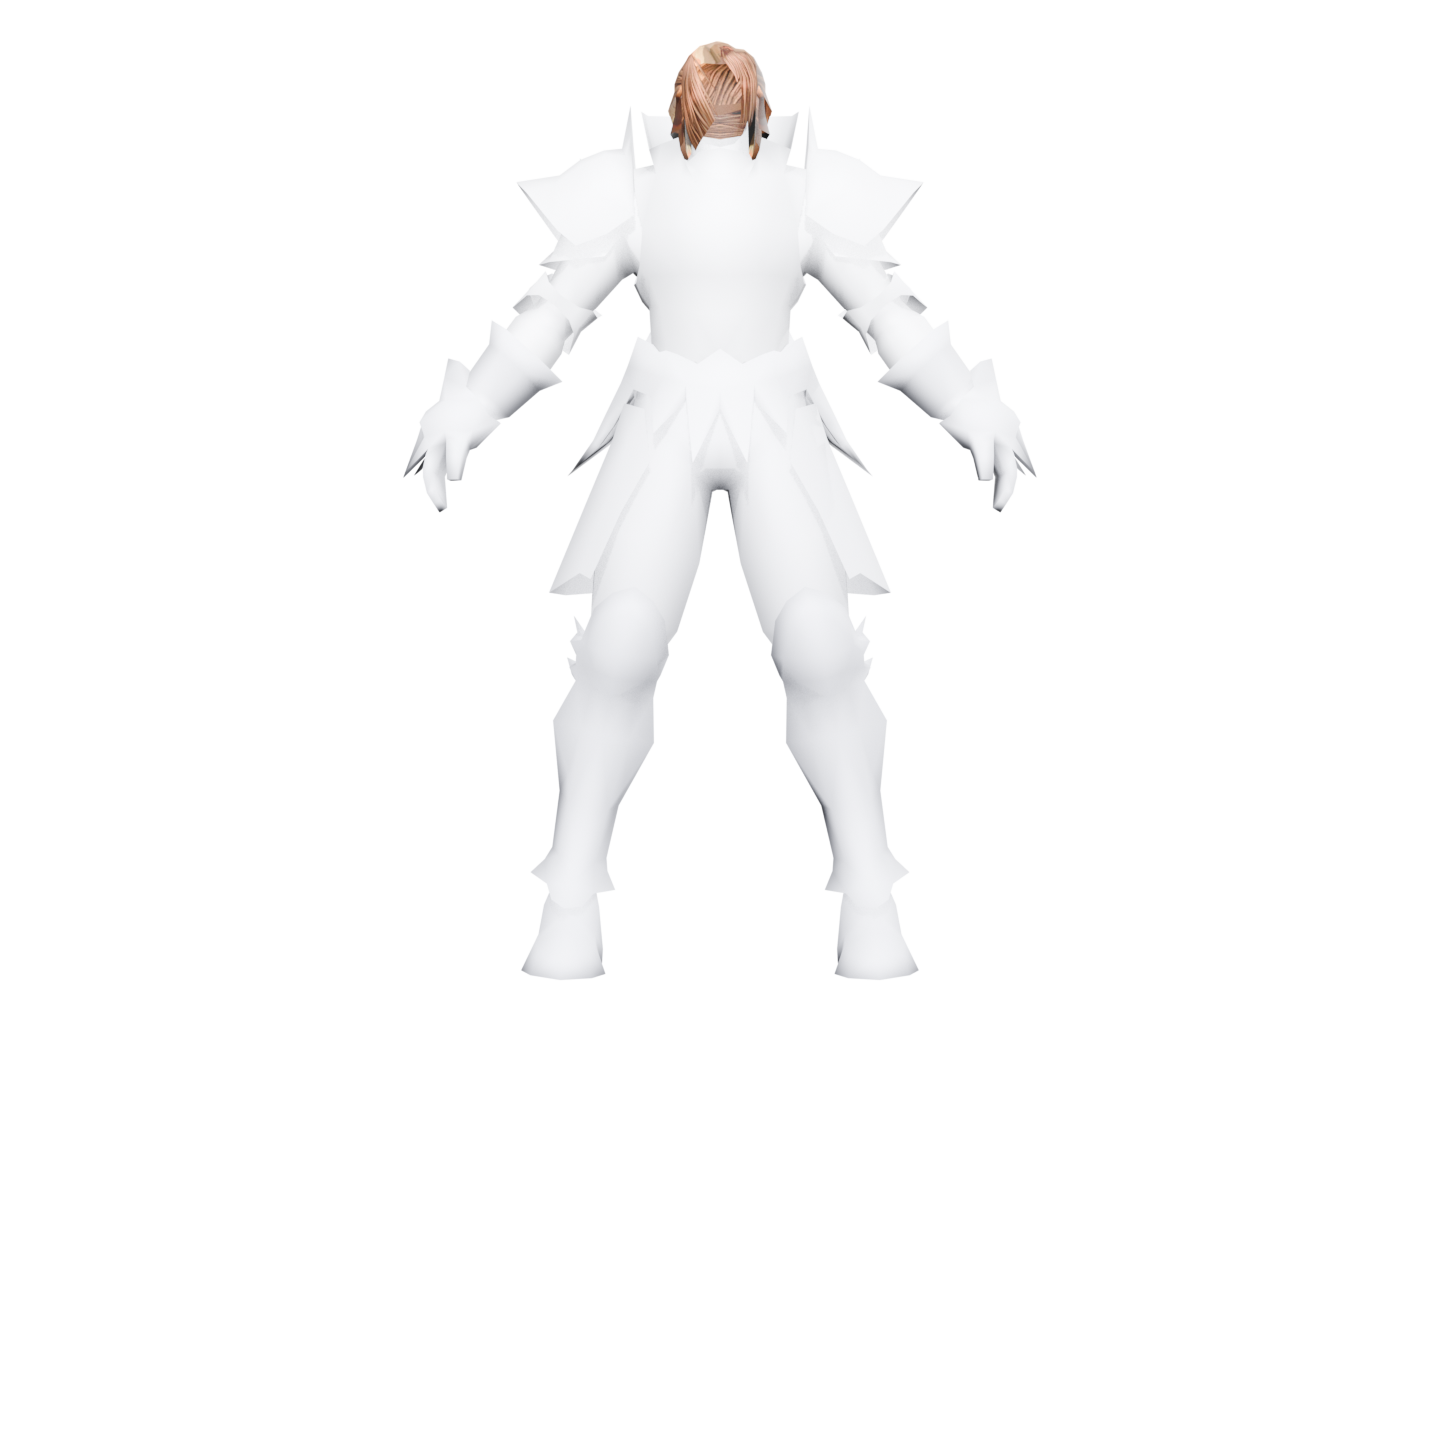
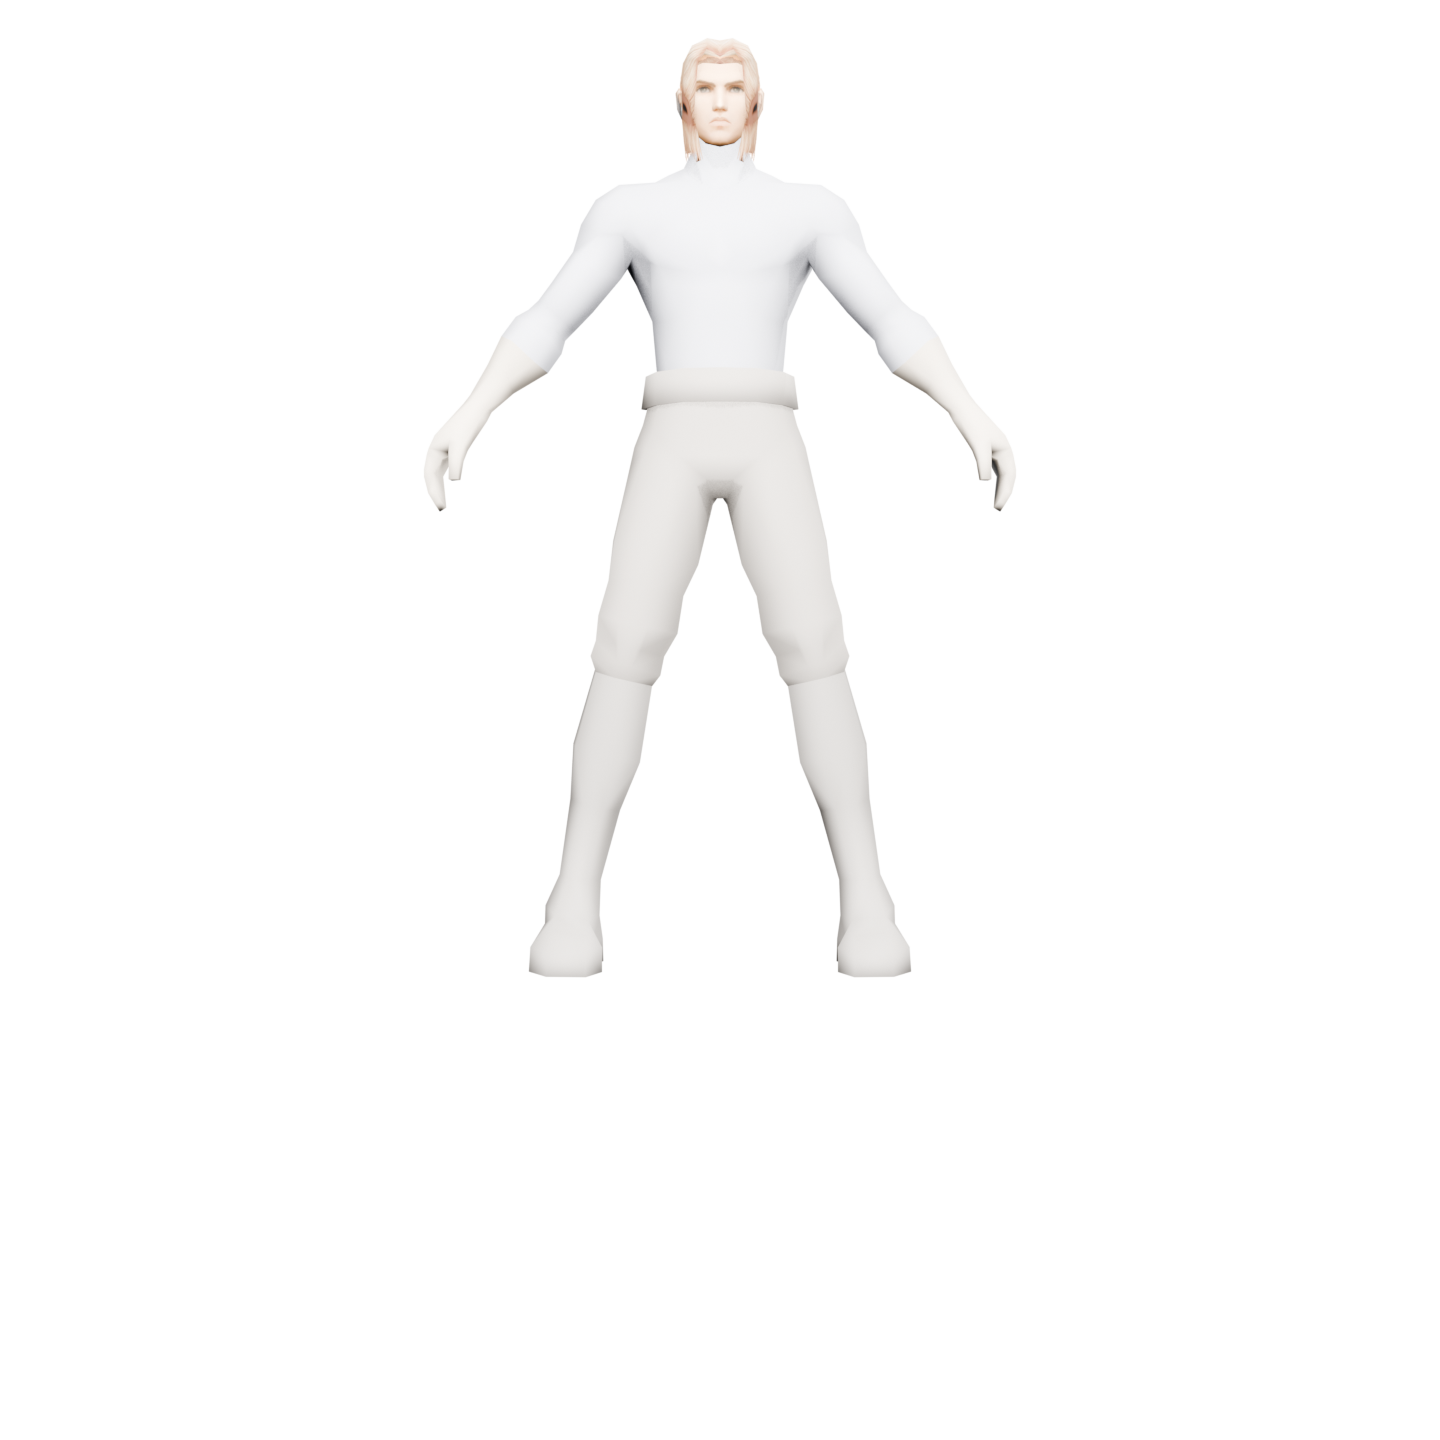
Switch base profile to clean male fighter

diff --git a/index.html b/index.html
@@ -8,7 +8,7 @@
   <meta http-equiv="Expires" content="0">
   <script>
     (function () {
-      const APP_VERSION = '20260426-telegram-83';
+      const APP_VERSION = '20260426-telegram-84';
       const url = new URL(window.location.href);
       window.__HD_DEBUG_GRID__ = url.searchParams.get('grid') === '1';
       if (url.searchParams.get('appv') !== APP_VERSION) {
@@ -19,8 +19,8 @@
     })();
   </script>  <title>Hollow Dominion</title>
   <script src="https://telegram.org/js/telegram-web-app.js"></script>
-  <script type="module" src="./assets/vendor/model-viewer.min.js?v=20260426-telegram-83"></script>
-  <link rel="stylesheet" href="common.css?v=20260426-telegram-83">
+  <script type="module" src="./assets/vendor/model-viewer.min.js?v=20260426-telegram-84"></script>
+  <link rel="stylesheet" href="common.css?v=20260426-telegram-84">
   <style>
     .screen-page {
       position: relative;
@@ -2278,7 +2278,7 @@
   <div class="toast" id="toast"></div>
 
 <script src="item-catalog.js?v=20260426-telegram-62"></script>
-<script src="common.js?v=20260426-telegram-83"></script>
+<script src="common.js?v=20260426-telegram-84"></script>
     <script>
       (async () => {
       const screenPage = document.querySelector('.screen-page');
@@ -2650,8 +2650,8 @@
                       <div class="profile-3d-viewer">
                         <model-viewer
                           id="profileModelViewer"
-                          src="./assets/models/profile_base.glb?v=20260426-telegram-83"
-                          poster="./assets/models/profile_base_poster.png?v=20260426-telegram-83"
+                          src="./assets/models/profile_base.glb?v=20260426-telegram-84"
+                          poster="./assets/models/profile_base_poster.png?v=20260426-telegram-84"
                           camera-controls
                           disable-pan
                           disable-zoom

diff --git a/scripts/build_profile_mannequin.py b/scripts/build_profile_mannequin.py
@@ -166,6 +166,17 @@ def find_l2_mfighter_root() -> Path | None:
     return None
 
 
+def find_l2_mfighter_clean_root() -> Path | None:
+    candidates = [
+        OUTER_ROOT / "$out" / "Fighter" / "SkeletalMesh",
+        OUTER_ROOT / "_l2_clear_mfighter_m000" / "Fighter" / "SkeletalMesh",
+    ]
+    for candidate in candidates:
+        if candidate.exists():
+            return candidate
+    return None
+
+
 def find_first_existing(*paths: Path) -> Path | None:
     for path in paths:
         if path.exists():
@@ -201,6 +212,42 @@ def import_l2_profile_part(gltf_path: Path, material):
 
 
 def add_l2_fighter_profile(variant: str) -> bool:
+    if variant == "base":
+        clean_root = find_l2_mfighter_clean_root()
+        if clean_root:
+            required_clean = [
+                clean_root / "MFighter_m000_u.gltf",
+                clean_root / "MFighter_m000_l.gltf",
+                clean_root / "MFighter_m000_g.gltf",
+                clean_root / "MFighter_m000_b.gltf",
+                clean_root / "MFighter_m000_h.gltf",
+                clean_root / "MFighter_m000_f.gltf",
+            ]
+            if all(path.exists() for path in required_clean):
+                face_tex = find_first_existing(
+                    OUTER_ROOT / "$out" / "MFighter" / "Texture" / "MFighter_m000_t01_f.png",
+                    OUTER_ROOT / "$out" / "MFighter" / "Texture" / "MFighter_m000_t01_f.tga",
+                )
+                hair_tex = find_first_existing(
+                    OUTER_ROOT / "$out" / "FFighter" / "Texture" / "FFighter_m000_t00_m00_bh_ori.png",
+                    OUTER_ROOT / "$out" / "FFighter" / "Texture" / "FFighter_m000_t00_m00_bh_ori.tga",
+                )
+
+                upper_mat = make_material("L2CleanUpper", (0.42, 0.42, 0.46), metallic=0.02, roughness=0.86, specular=0.08)
+                lower_mat = make_material("L2CleanLower", (0.30, 0.27, 0.24), metallic=0.02, roughness=0.88, specular=0.08)
+                hands_mat = make_material("L2CleanHands", (0.50, 0.43, 0.35), metallic=0.0, roughness=0.72, specular=0.14)
+                boots_mat = make_material("L2CleanBoots", (0.24, 0.22, 0.20), metallic=0.02, roughness=0.86, specular=0.08)
+                hair_mat = make_image_material("L2CleanHairTex", hair_tex, metallic=0.0, roughness=0.84, specular=0.08, alpha_mode="HASHED") if hair_tex and hair_tex.exists() else make_material("L2CleanHair", (0.40, 0.31, 0.20), metallic=0.0, roughness=0.84, specular=0.08)
+                face_mat = make_image_material("L2CleanFaceTex", face_tex, metallic=0.0, roughness=0.68, specular=0.16) if face_tex and face_tex.exists() else make_material("L2CleanFace", (0.74, 0.62, 0.50), metallic=0.0, roughness=0.68, specular=0.16)
+
+                import_l2_profile_part(clean_root / "MFighter_m000_u.gltf", upper_mat)
+                import_l2_profile_part(clean_root / "MFighter_m000_l.gltf", lower_mat)
+                import_l2_profile_part(clean_root / "MFighter_m000_g.gltf", hands_mat)
+                import_l2_profile_part(clean_root / "MFighter_m000_b.gltf", boots_mat)
+                import_l2_profile_part(clean_root / "MFighter_m000_h.gltf", hair_mat)
+                import_l2_profile_part(clean_root / "MFighter_m000_f.gltf", face_mat)
+                return True
+
     root = find_l2_mfighter_root()
     if not root:
         return False